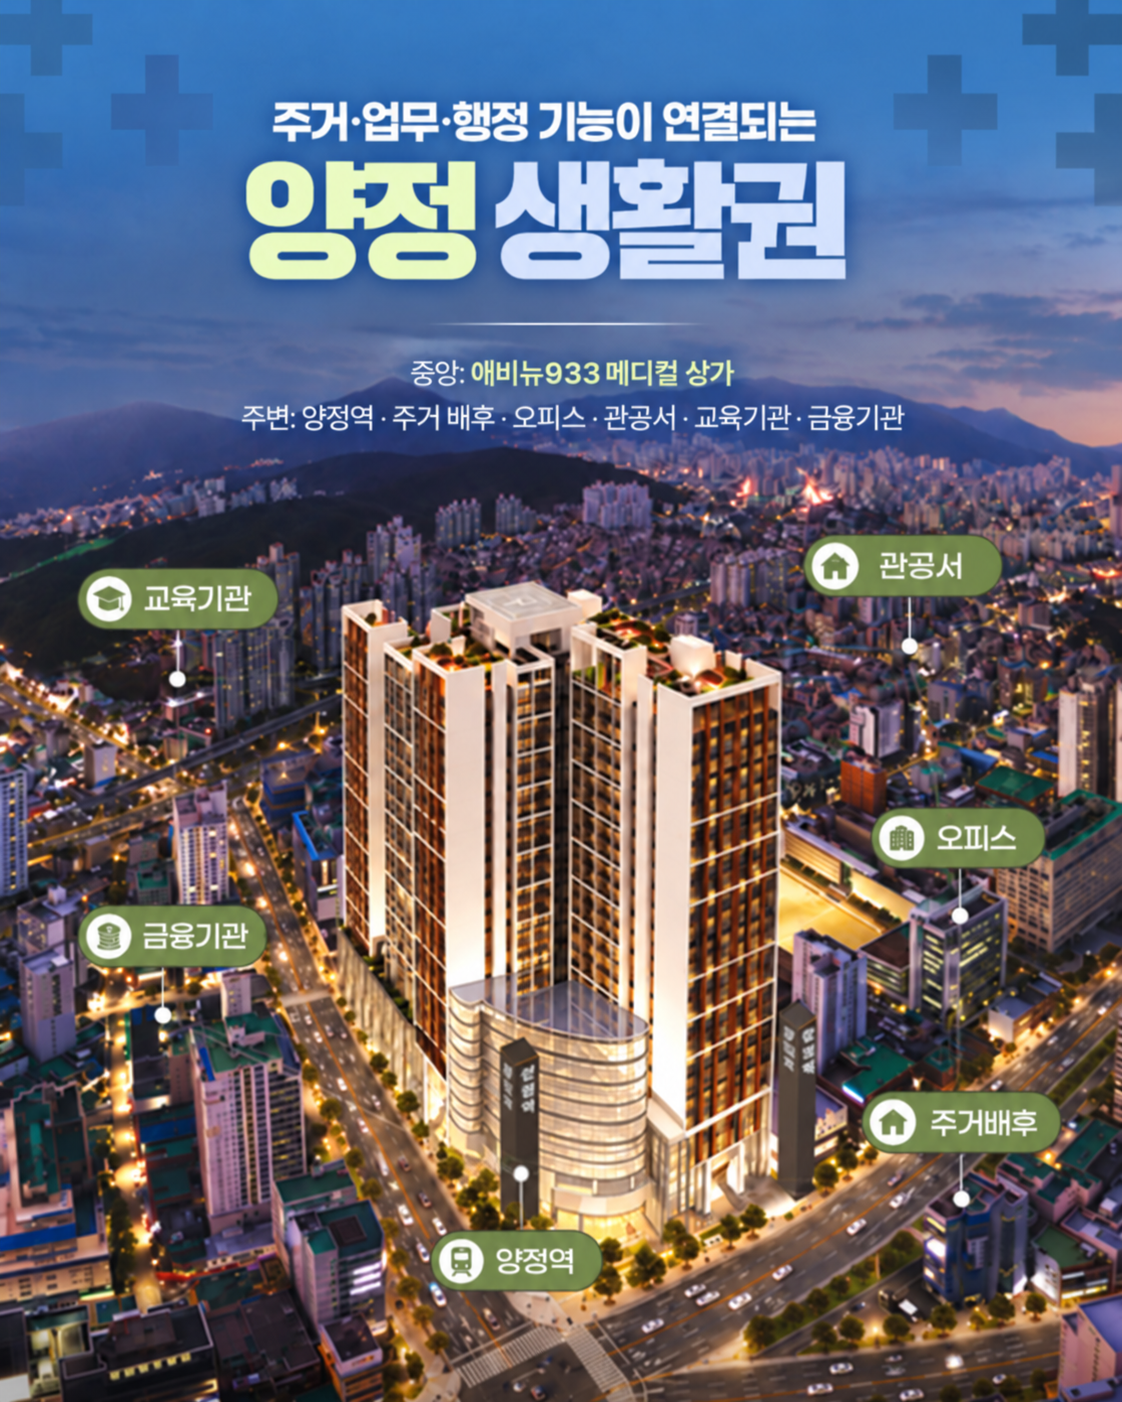
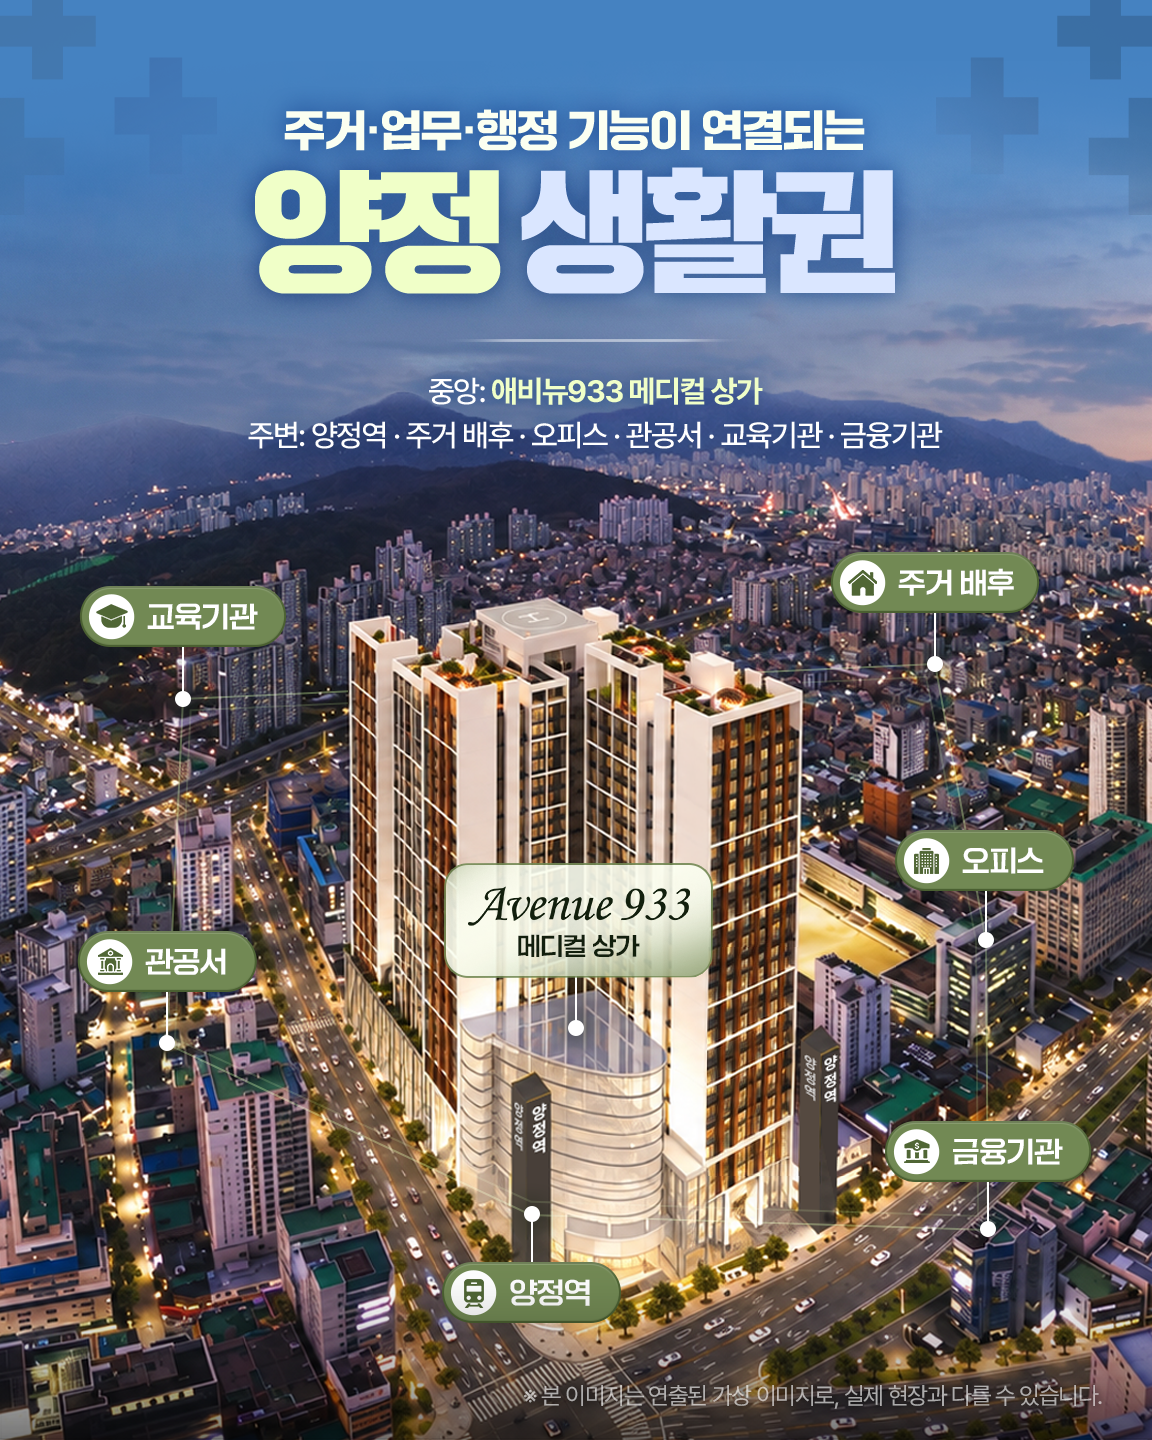
1

diff --git a/index.html b/index.html
@@ -145,6 +145,51 @@
 <section class="document-section second" id="support"><div class="wrap document-head"><div><p class="eyebrow">CORE DOCUMENT 02</p><h2><span class="title-line">두 번째 자료에서는</span><span class="title-line">입점·운영 조건을 확인합니다.</span></h2></div><p>생활권 배후, 1층 공간 활용, 추천 진료과, 임대·분양 관련 안내와 개원 초기 지원 내용을 한 번에 볼 수 있도록 구성된 자료입니다.</p></div><div class="document-frame"><img src="assets/medical-brochure-back.jpg" alt="애비뉴933 메디컬 핵심 안내 두 번째 자료"></div></section>
 <section class="evidence"><div class="wrap"><div class="evidence-head"><p class="eyebrow">LOCATION CONTEXT</p><h2><span class="title-line">의료 수요는 ‘지나가는 사람’보다</span><span class="title-line">생활권 안에서 반복됩니다.</span></h2></div><div class="evidence-grid"><article><b>약 6.1만</b><span>주변 배후 세대</span></article><article><b>약 3.4만</b><span>아파트 세대</span></article><article><b>약 5.3만</b><span>오피스 수요</span></article><article><b>24 · 77 · 40</b><span>관공서 · 교육기관 · 금융기관</span></article></div><p class="note">※ 애비뉴933 제공 자료 기준.</p></div></section>
 
+
+<section class="context-visual-section" id="living-context">
+  <div class="wrap">
+    <div class="context-visual-head">
+      <div>
+        <p class="eyebrow">LIVING DEMAND</p>
+        <h2><span class="title-line">배후수요를 숫자로 보고,</span><span class="title-line">생활권 연결까지 함께 봅니다.</span></h2>
+      </div>
+      <p>주거 배후와 오피스 수요, 관공서·교육기관·금융기관 등 의료시설 이용으로 이어질 수 있는 주변 생활권을 두 장의 자료로 이어서 확인할 수 있습니다.</p>
+    </div>
+    <div class="context-visual-grid">
+      <figure class="context-visual-card">
+        <img src="assets/medical-demand-updated.png" alt="애비뉴933 주변 의료 수요 및 배후세대 안내 자료">
+        <figcaption><strong>01 · 의료 수요</strong><span>배후세대·아파트·오피스·주요 기관 수요</span></figcaption>
+      </figure>
+      <figure class="context-visual-card">
+        <img src="assets/yangjeong-living-zone-updated.png" alt="양정역과 애비뉴933 주변 생활권 안내 자료">
+        <figcaption><strong>02 · 양정 생활권</strong><span>양정역·주거 배후·오피스·관공서·교육기관·금융기관</span></figcaption>
+      </figure>
+    </div>
+  </div>
+</section>
+
+<section class="context-visual-section medical-flow-section" id="medical-flow">
+  <div class="wrap">
+    <div class="context-visual-head">
+      <div>
+        <p class="eyebrow">MEDICAL SPACE & FLOW</p>
+        <h2><span class="title-line">메디컬 공간을 먼저 보고,</span><span class="title-line">환자 이동 흐름까지 연결합니다.</span></h2>
+      </div>
+      <p>메디컬 특화 공간의 전체 구성을 본 뒤 접수·진료·검사처치·재활치료·입원회복·약국으로 이어지는 동선을 순서대로 확인할 수 있도록 배치했습니다.</p>
+    </div>
+    <div class="context-visual-grid">
+      <figure class="context-visual-card">
+        <img src="assets/medical-cluster-updated.png" alt="애비뉴933 메디컬클러스터 공간 구성 안내 자료">
+        <figcaption><strong>03 · 메디컬클러스터</strong><span>진료와 지원 기능을 한 층 안에서 연결하는 공간 구성</span></figcaption>
+      </figure>
+      <figure class="context-visual-card">
+        <img src="assets/patient-flow-updated.png" alt="접수부터 약국까지 애비뉴933 환자 동선 안내 자료">
+        <figcaption><strong>04 · 환자 동선</strong><span>접수·대기 → 진료 → 검사처치 → 재활·치료 → 입원·회복 → 약국</span></figcaption>
+      </figure>
+    </div>
+  </div>
+</section>
+
 <section class="real-space" id="gallery"><div class="wrap"><div class="real-space-head"><div><p class="eyebrow">SPACE & FLOW</p><h2><span class="title-line">공간과 동선으로 보는</span><span class="title-line">애비뉴933</span></h2></div><p>상가 내부의 복도와 연결 구조, 공간감을 이미지로 살펴볼 수 있도록 구성했습니다.</p></div><div class="real-space-grid"><figure><img src="assets/real-hall-wide.jpg" alt="애비뉴933 실제 내부 공간"><figcaption>01 · INTERNAL HALL</figcaption></figure><figure><img src="assets/real-corridor-wide.jpg" alt="애비뉴933 실제 복도 및 이동 공간"><figcaption>02 · CORRIDOR FLOW</figcaption></figure><figure class="wide ai-figure"><img src="assets/real-entrance.png" alt="애비뉴933 공간 이미지"><figcaption>03 · AVENUE 933 ENTRANCE</figcaption><p class="image-disclaimer">※ 본 이미지는 AI로 제작된 연출 이미지로 실제 현장과 다를 수 있습니다.</p></figure></div></div></section><section class="gourmet"><div class="wrap gourmet-grid"><div><p class="eyebrow">2F ANCHOR TENANT</p><h2><span class="title-line">메디컬 다음으로,</span><span class="title-line">2층의 목적 방문 콘텐츠</span></h2><p>2층에는 프리미엄 스시뷔페 고메스퀘어가 자리합니다. 메디컬 메시지와 분리해 페이지 하단에서 상층부의 별도 방문 목적을 만드는 요소로만 소개합니다.</p></div><figure><img src="assets/real-atrium-wide.jpg" alt="애비뉴933 상업공간"></figure></div></section>
 <section class="contact" id="contact"><div class="wrap contact-grid"><div><p class="eyebrow light">MEDICAL INQUIRY</p><h2><span class="title-line">애비뉴933 1층 메디컬</span><span class="title-line">입점·임대·매매 상담</span></h2><p>현장 위치, 1층 공간, 실제 연결 동선을 직접 확인해보세요.</p><a class="phone" href="tel:01094698957">010-9469-8957</a></div><form class="contact-form" onsubmit="return requestCall(event)"><div class="form-row"><input required id="name" placeholder="성함"><input required id="phone" placeholder="연락처"></div><select id="type"><option>관심 유형 선택</option><option>임대 문의</option><option>매매/분양 문의</option><option>현장 방문 문의</option></select><input id="dept" placeholder="희망 진료과 예: 내과 / 정형외과"><button type="submit">상담 요청하기</button><p>※ 실제 배포 시 기존 문의 전송 방식에 연결하면 됩니다.</p></form></div></section>
 </main>

diff --git a/styles.css b/styles.css
@@ -1363,3 +1363,20 @@ button.nav-cta{
     background:#242628 !important;
   }
 }
+
+
+/* Added 2026-09-30: updated demand / living-zone / medical-flow visuals */
+.context-visual-section{padding:110px 0;border-bottom:1px solid var(--line);background:#fff}
+.context-visual-section.medical-flow-section{background:#f7f8f5}
+.context-visual-head{display:grid;grid-template-columns:1fr .72fr;gap:70px;align-items:end;margin-bottom:42px}
+.context-visual-head h2{margin:0;font-size:clamp(36px,4.25vw,58px);line-height:1.12;letter-spacing:-.052em}
+.context-visual-head>p{margin:0;color:var(--muted);font-size:16px;max-width:540px}
+.context-visual-grid{display:grid;grid-template-columns:repeat(2,minmax(0,1fr));gap:30px;align-items:start}
+.context-visual-card{background:#fff;border:1px solid #dedfdd;padding:14px;box-shadow:0 16px 42px rgba(24,31,25,.06)}
+.medical-flow-section .context-visual-card{background:#fff}
+.context-visual-card img{width:100%;height:auto;aspect-ratio:auto;object-fit:contain;background:#f4f5f1}
+.context-visual-card figcaption{display:flex;justify-content:space-between;gap:18px;padding:16px 4px 2px;border-top:1px solid #ececea;margin-top:14px}
+.context-visual-card figcaption strong{font-size:13px;letter-spacing:.03em}
+.context-visual-card figcaption span{font-size:12px;color:#777b7e;text-align:right}
+@media(max-width:980px){.context-visual-head{grid-template-columns:1fr;gap:24px}.context-visual-grid{gap:22px}}
+@media(max-width:640px){.context-visual-section{padding:72px 0}.context-visual-head h2{font-size:32px;line-height:1.2}.context-visual-grid{grid-template-columns:1fr}.context-visual-card{padding:10px}.context-visual-card figcaption{display:block}.context-visual-card figcaption span{display:block;text-align:left;margin-top:5px}}
